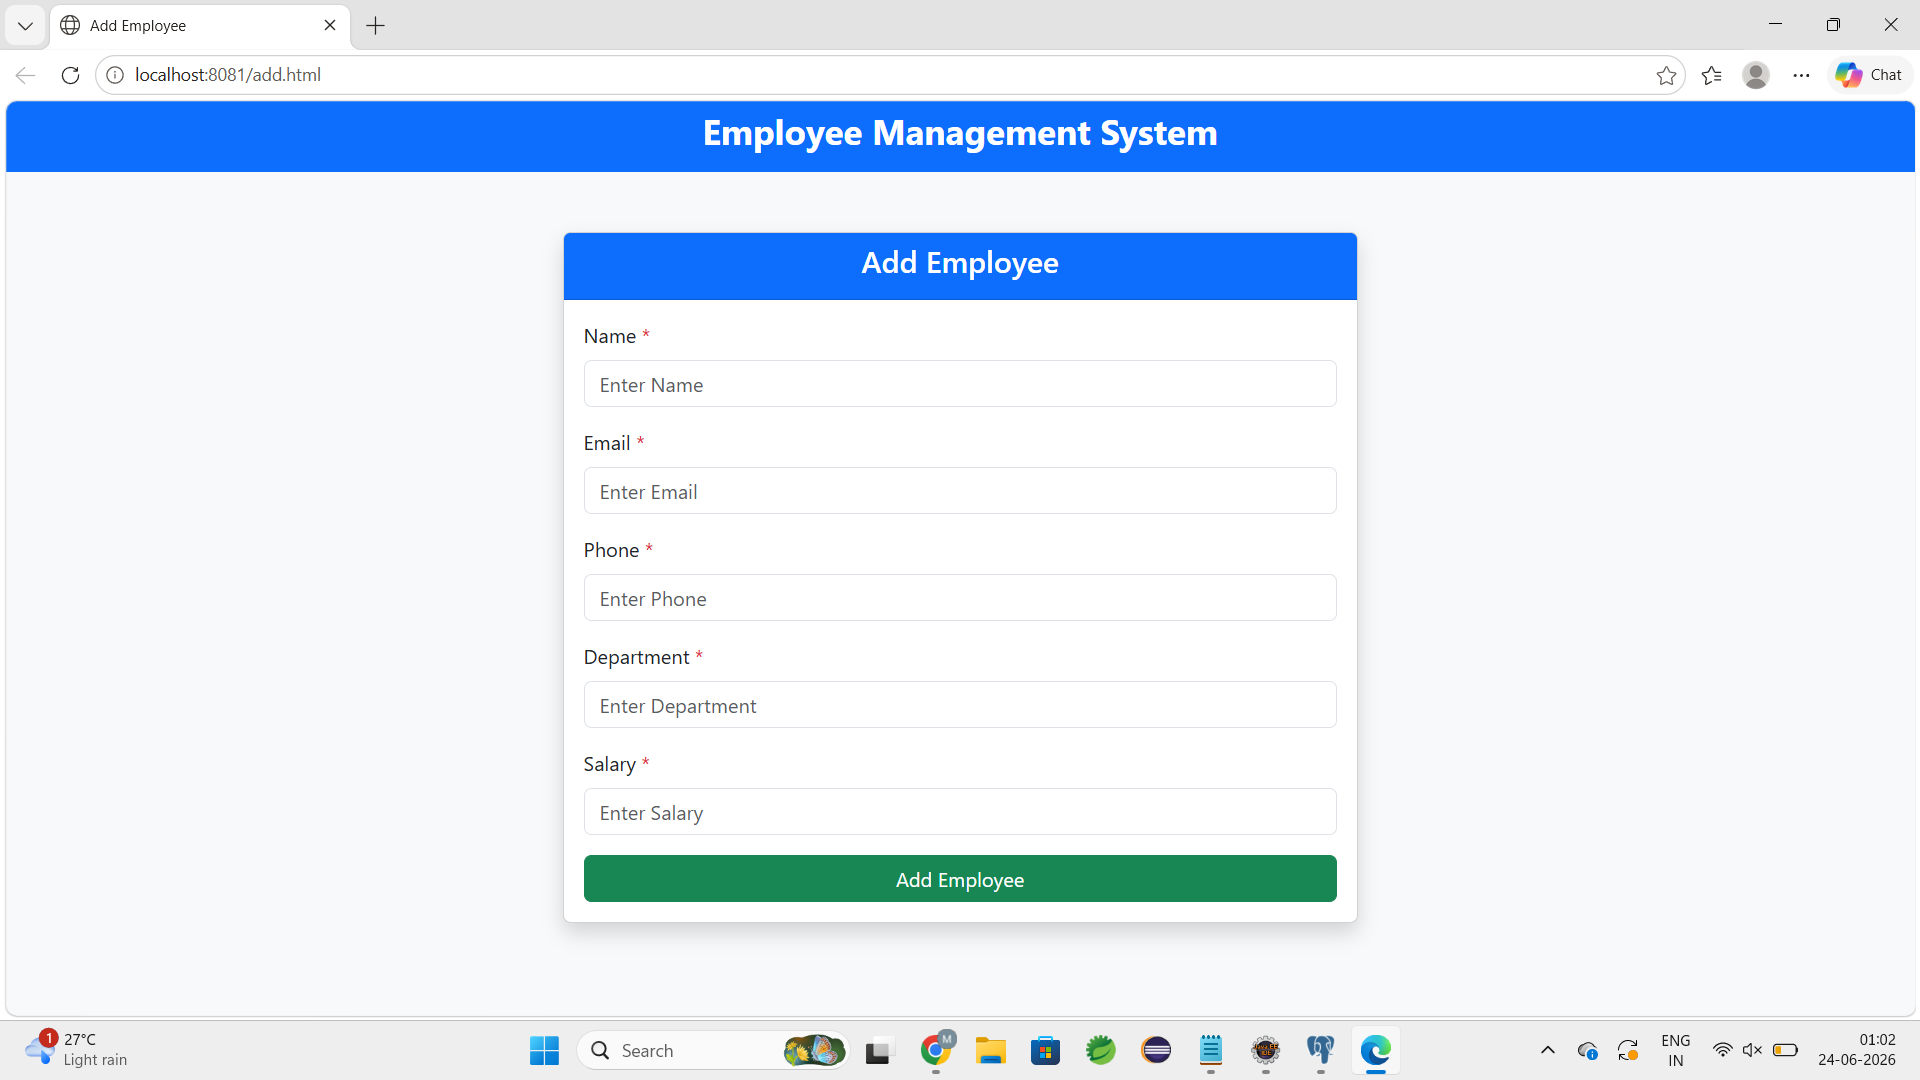
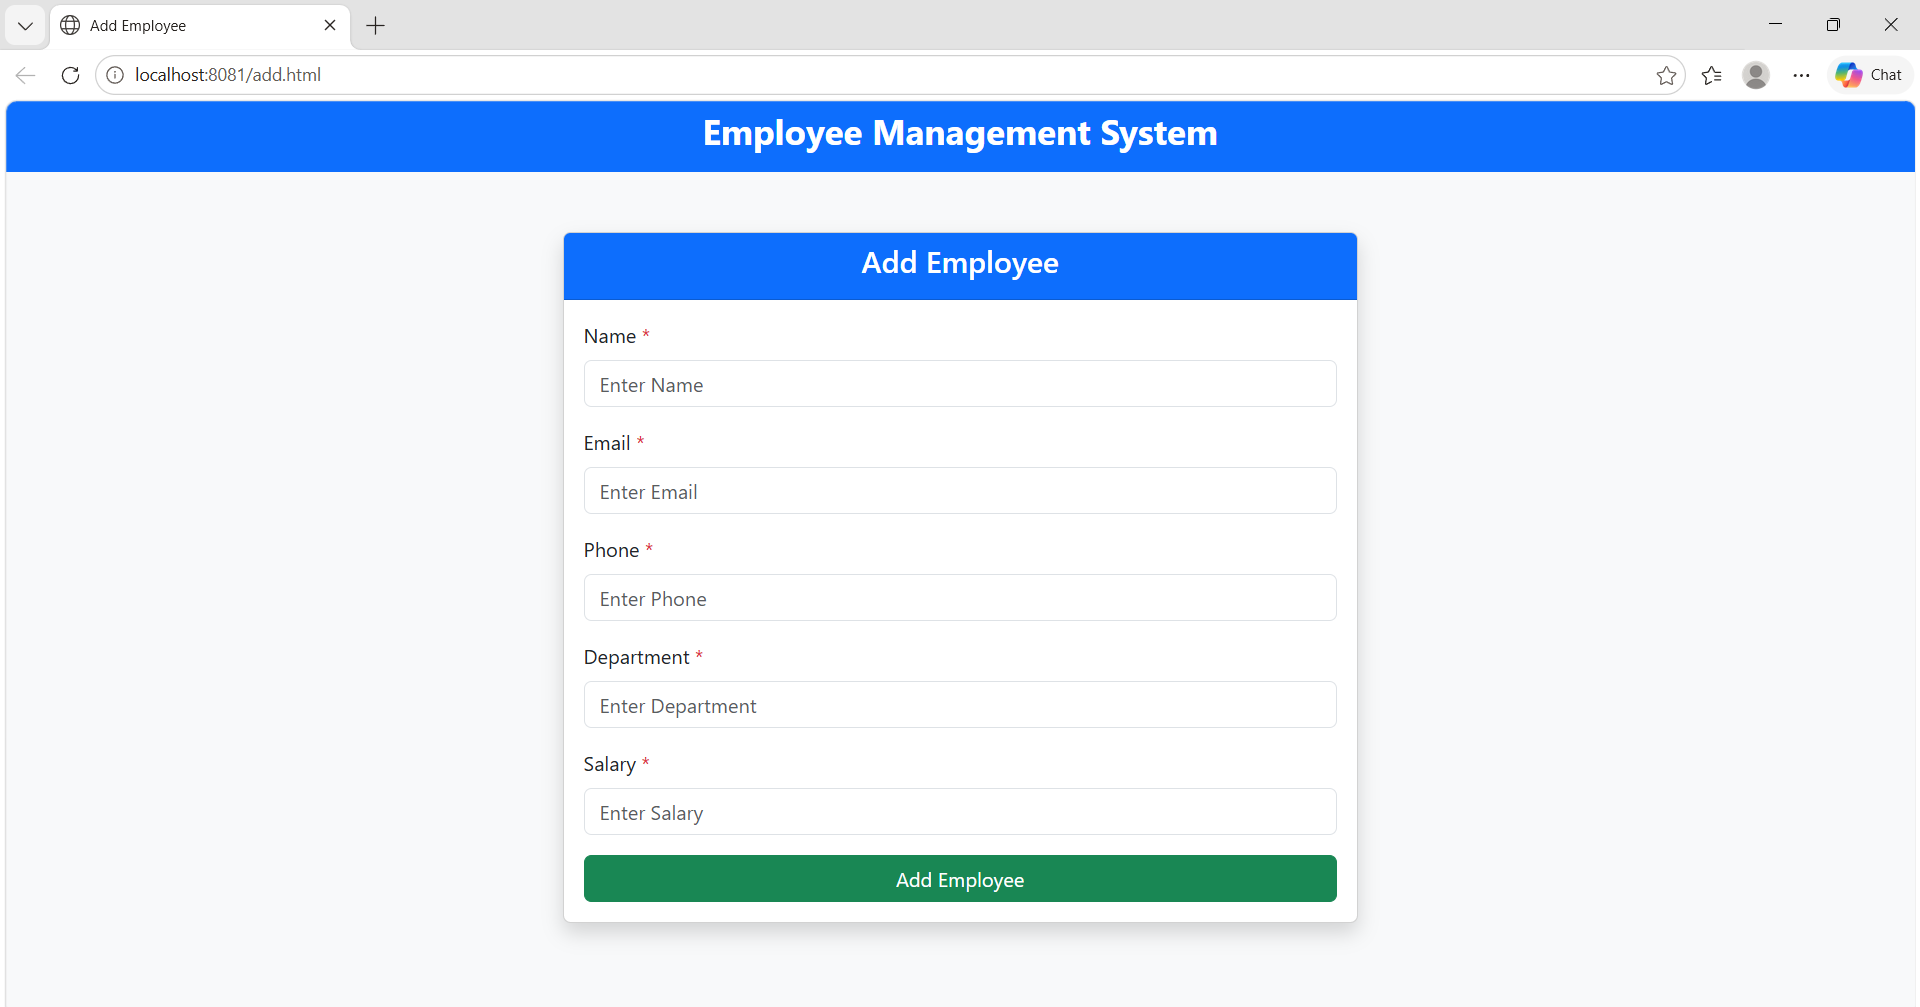
Updated Screenshots and README

diff --git a/README.md b/README.md
@@ -43,6 +43,17 @@ A full-stack Employee Management System built using Spring Boot, PostgreSQL, HTM
 | DELETE | /employees/{eid} | Delete employee |
 | GET | /employees/search?keyword=name | Search employee by name |
 
+## Screenshots
+
+### Home Page
+<img src="screenshots/home.png" width="700">
+
+### Add Employee
+<img src="screenshots/add.png" width="700">
+
+### Update Employee
+<img src="screenshots/update.png" width="700">
+
 ## Validation Rules
 
 - Name is required